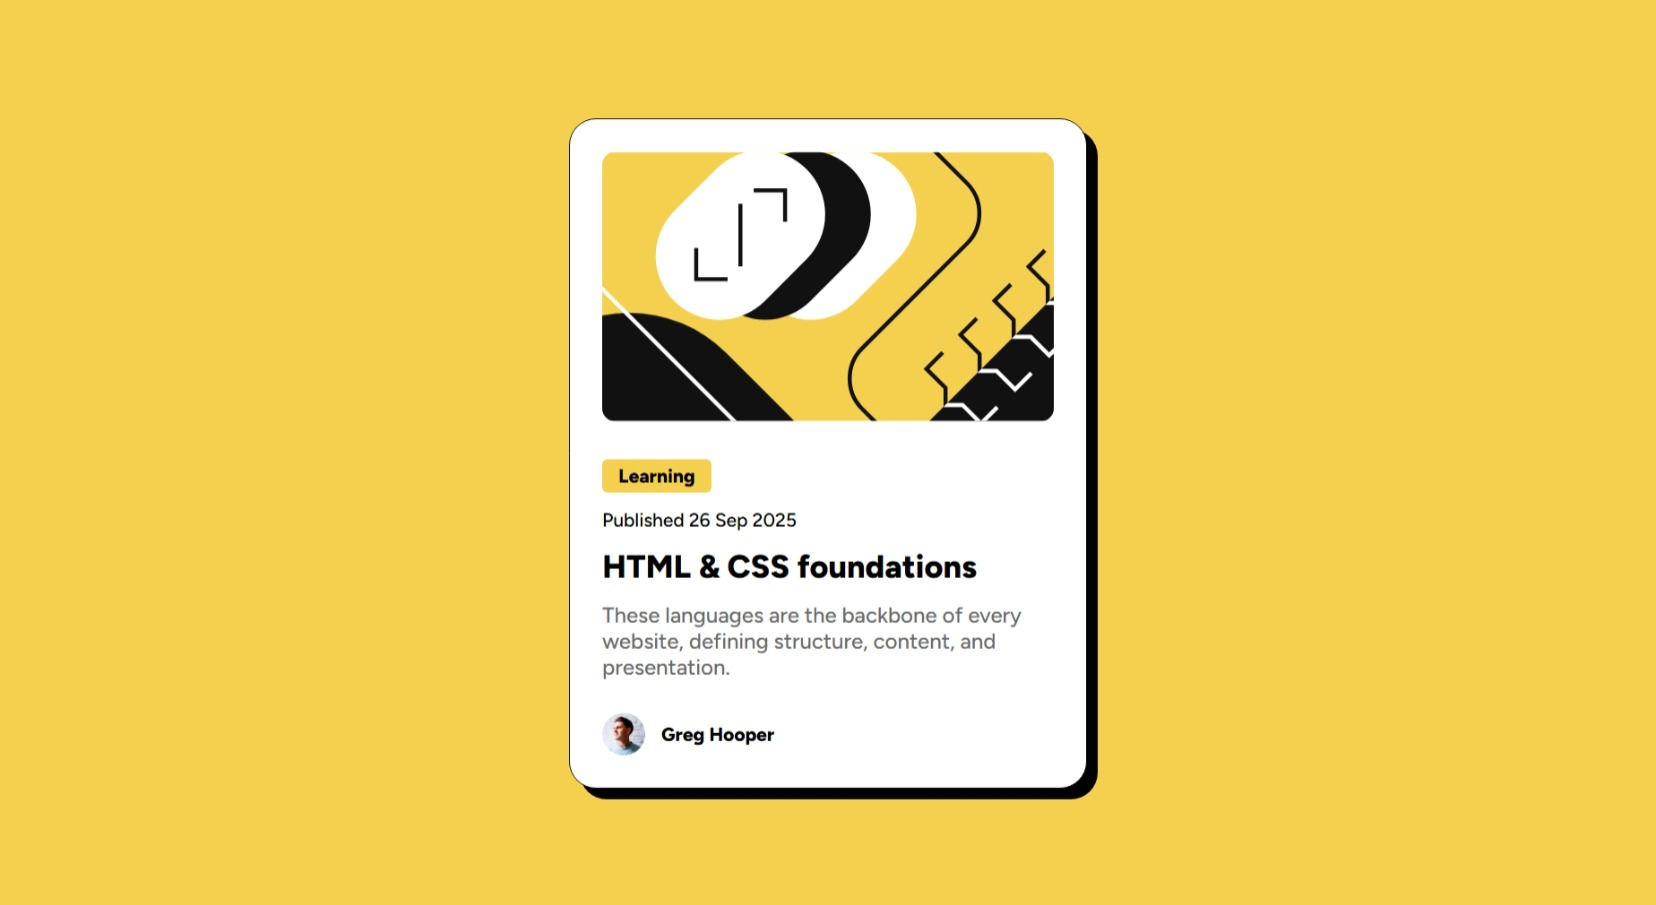
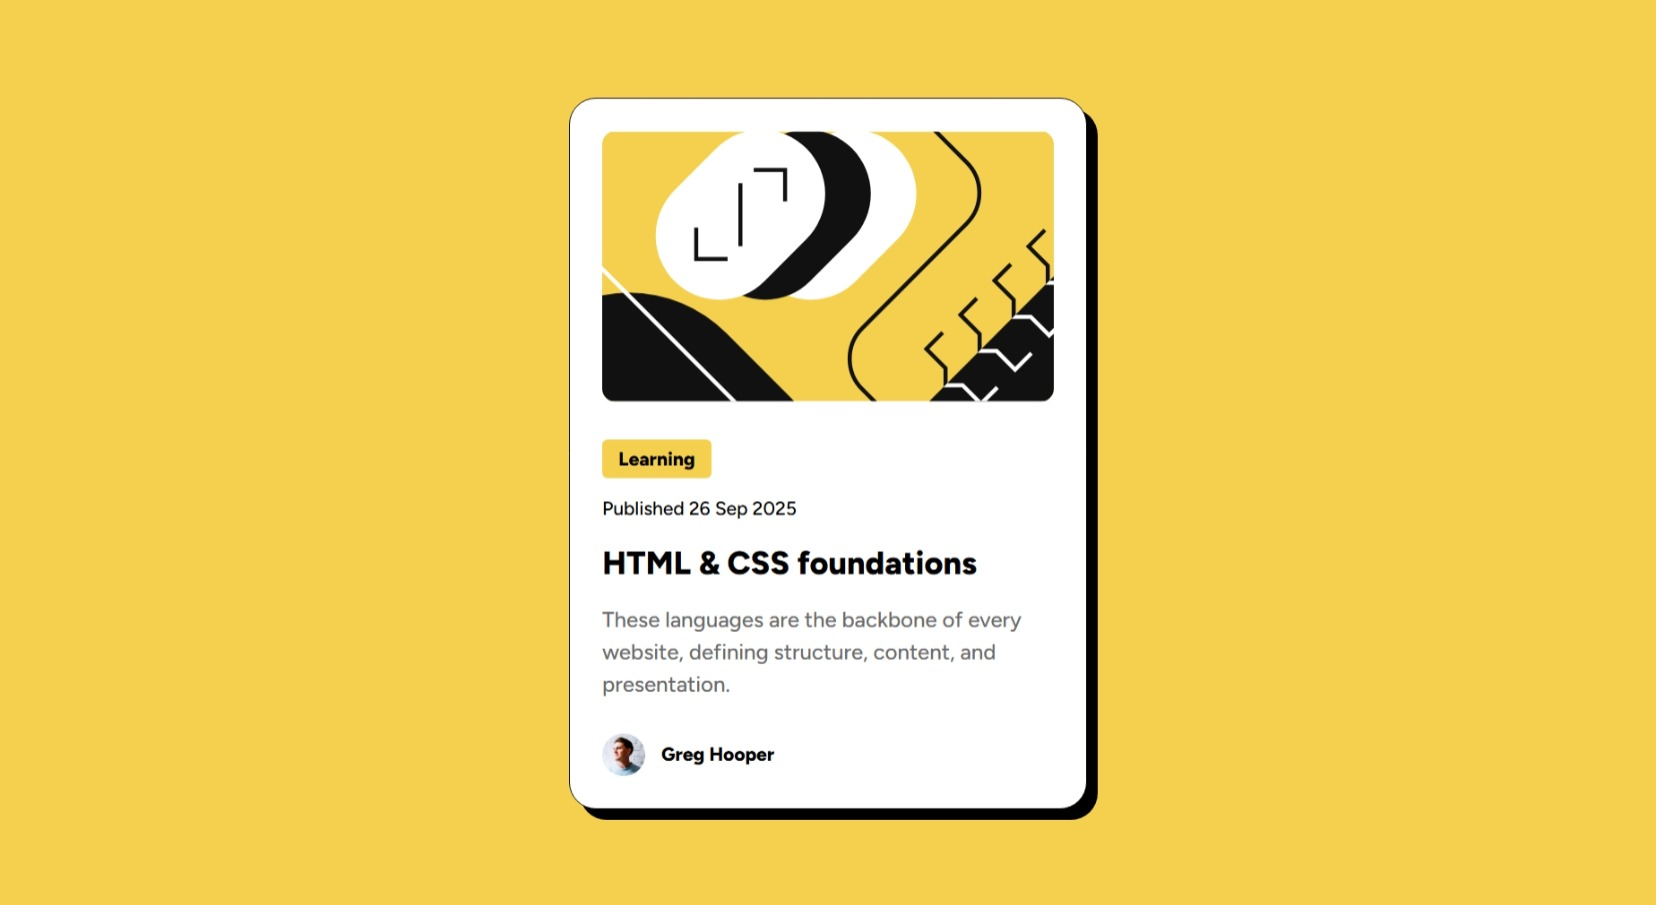
Update README

Changed region(s): [[0.3388, 0.0928, 0.6775, 0.9282]]

diff --git a/styles.css b/styles.css
@@ -55,6 +55,7 @@ p, h1, h2, h3, h4, h5, h6 {
 h1 {
     font-weight: 800;
     font-size: 24px;
+    line-height: 150%;
 }
 
 h1:hover {
@@ -103,10 +104,14 @@ h1:focus {
     border-radius: 4px;
     font-weight: 800;
     font-size: 14px;
+    line-height: 150%;
+
 }
 
 .published-date {
     font-size: 14px;
+    line-height: 150%;
+
 }
 
 .description {
@@ -114,6 +119,7 @@ h1:focus {
     font-size: 16px;
     color: var(--Gray-500);
     white-space: inherit;
+    line-height: 150%;
 }
 
 .card__author {
